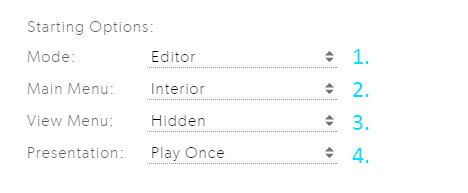
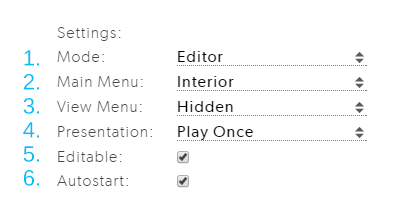
Updated Sharing Text in Docs

diff --git a/en/3d-editor/sharing/index.md b/en/3d-editor/sharing/index.md
@@ -49,6 +49,15 @@ You can customize the Archilogic content that you're going to share with someone
 
     * **No Presentation:** The presentation will not be started when someone clicks on the link or looks at the iframe. The presentation has to be started manually by clicking on the camera bookmarks button and then on the start presentation button.
 
+4. Editable
+
+    * The **Editable** checkbox only has an effect on the behavior of the user interface if you choose the viewer mode. Clicking on the full screen button in the lower right corner of the screen when in Viewer mode will switch into full screen without showing the main menu on the right side if the checkbox is unchecked. It is thus not possible to edit the model in Viewer mode. If the checkbox is checked the main menu will show up when switching from viewer mode into full screen and allow you to edit the furnishing, architectural structure or the materials.
+
+4. Autostart
+
+    * If the **Autostart** checkbox is active then the Archilogic 3d model loads automatically if the link is opened. This applies for Editor mode but also for Viewer mode. If the checkbox is unchecked a visitor first has to click on a play button on the screen in order for the 3d model to load. Again this applies for the Editor mode, but also for the Viewer mode or if the model is embedded somewhere as an iframe.
+    Unchecking the Autostart checkbox can be a way to improve loading time of a website if there are for example several Archilogic iframes embedded on the same site.
+
 ## Google Shortlink
 
 ![Google Shortlink]({{site.baseurl}}/assets/images/Basic-Share-Google-Shortlink.jpg){: .img-responsive}
